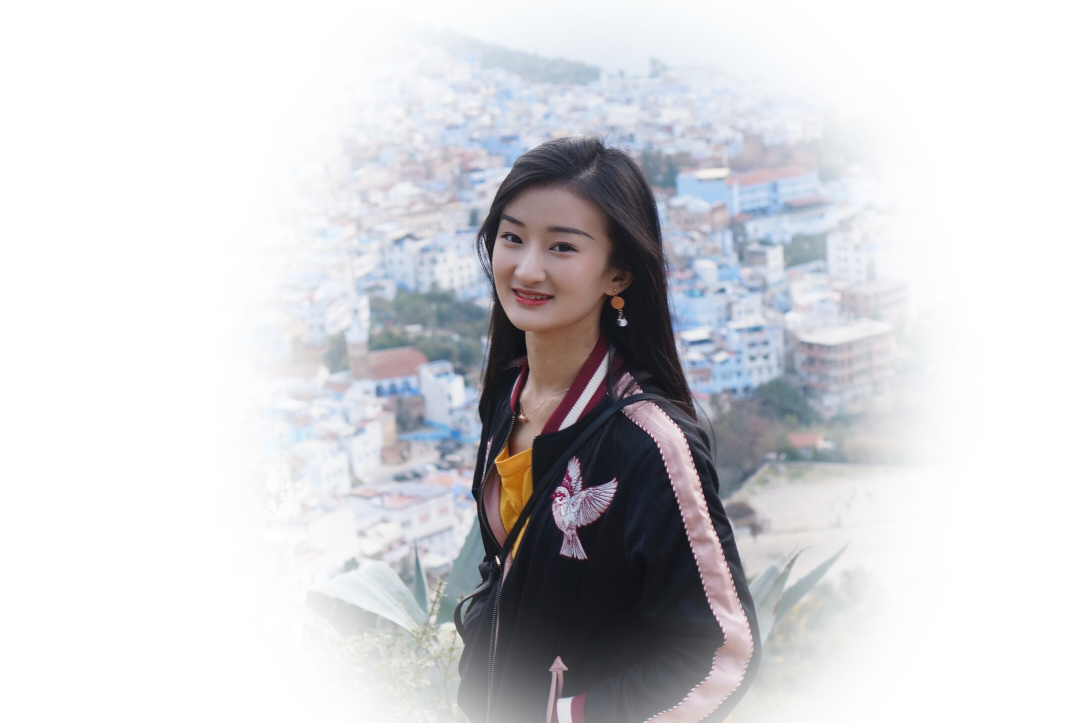
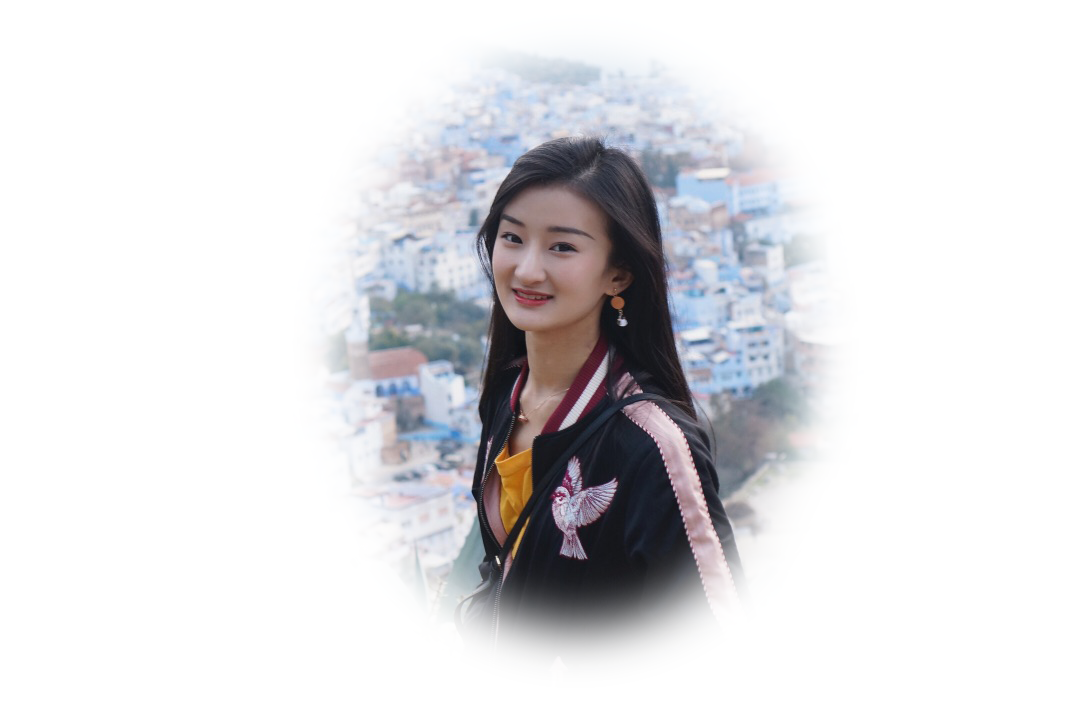
introduction done, adding styles

diff --git a/pages/home.js b/pages/home.js
@@ -3,12 +3,14 @@ import IntroCard from '../components/Home/IntroCard';
 import ProjectCard from '../components/Porjects/ProjectCard';
 import Footer from '../components/footer/footer';
 import { makeStyles, useTheme } from '@material-ui/core/styles';
+import { Container, Grid } from "@material-ui/core";
+
 
 const useStyles = makeStyles((theme) => ({
 
     profitPic: {
-        height: '500px',
-        width: '300px',
+        height: '629px',
+        width: '1000px',
     },
 }));
 
@@ -18,12 +20,21 @@ export default function Home() {
 
     return (<>
         <NavBar />
-        <img className={classes.profitPic} src="/profitPic.png" />
-        <IntroCard />
-        <ProjectCard />
-        <ProjectCard />
-        <ProjectCard />
-        <ProjectCard />
-        <Footer />
+        <Container>
+            <Grid container>
+                <Grid md={8}>
+                    <IntroCard />
+                </Grid>
+                <Grid md={4}>
+                    <img className={classes.profitPic} src="/profitPic.png" />
+                </Grid>
+            </Grid>
+            <ProjectCard />
+            <ProjectCard />
+            <ProjectCard />
+            <ProjectCard />
+            <Footer />
+        </Container>
     </>)
+
 }
